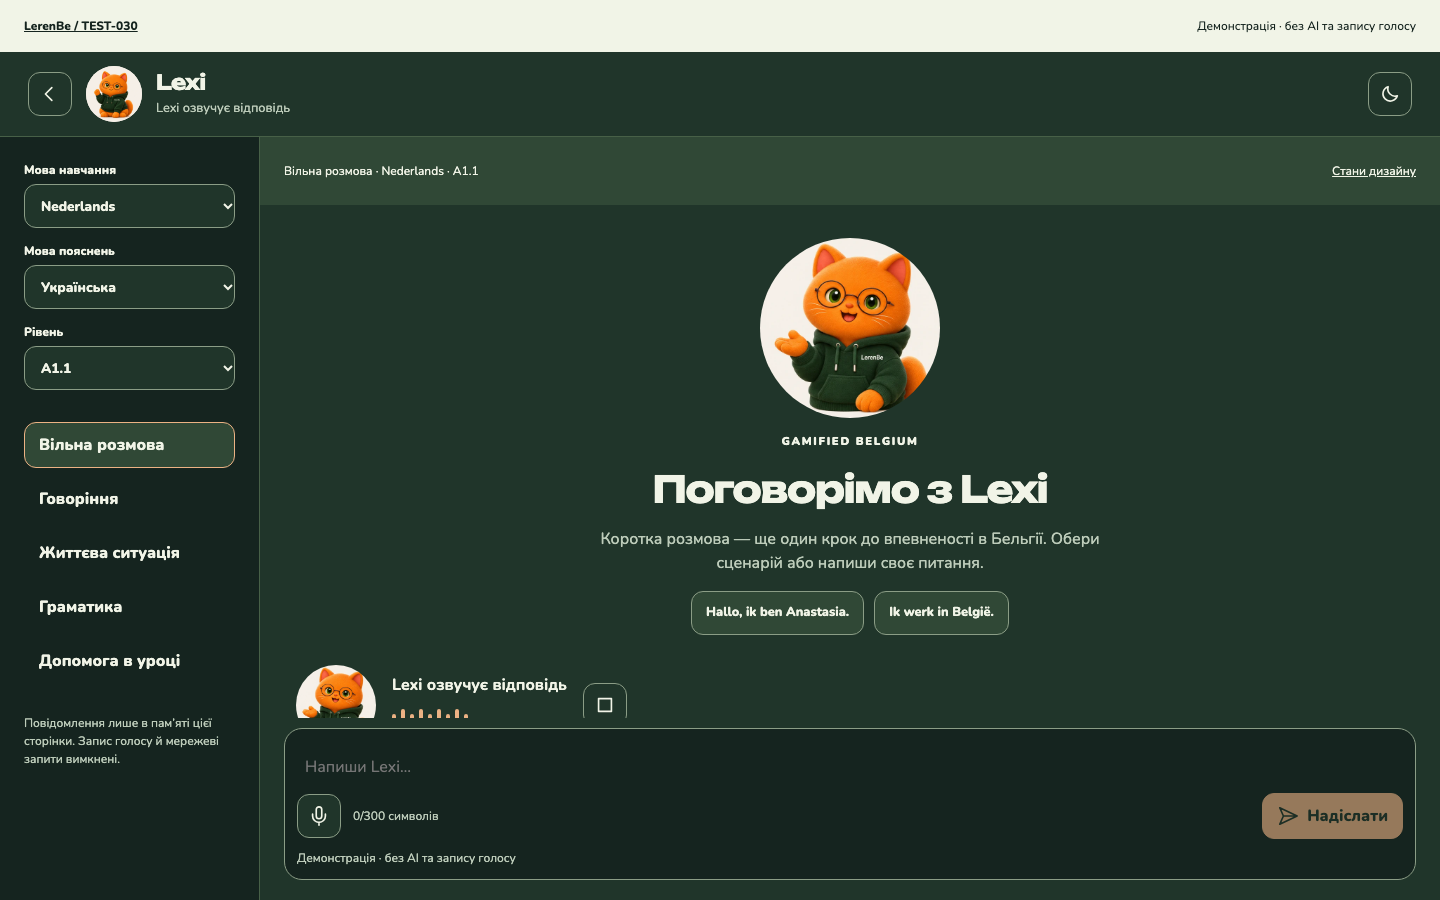
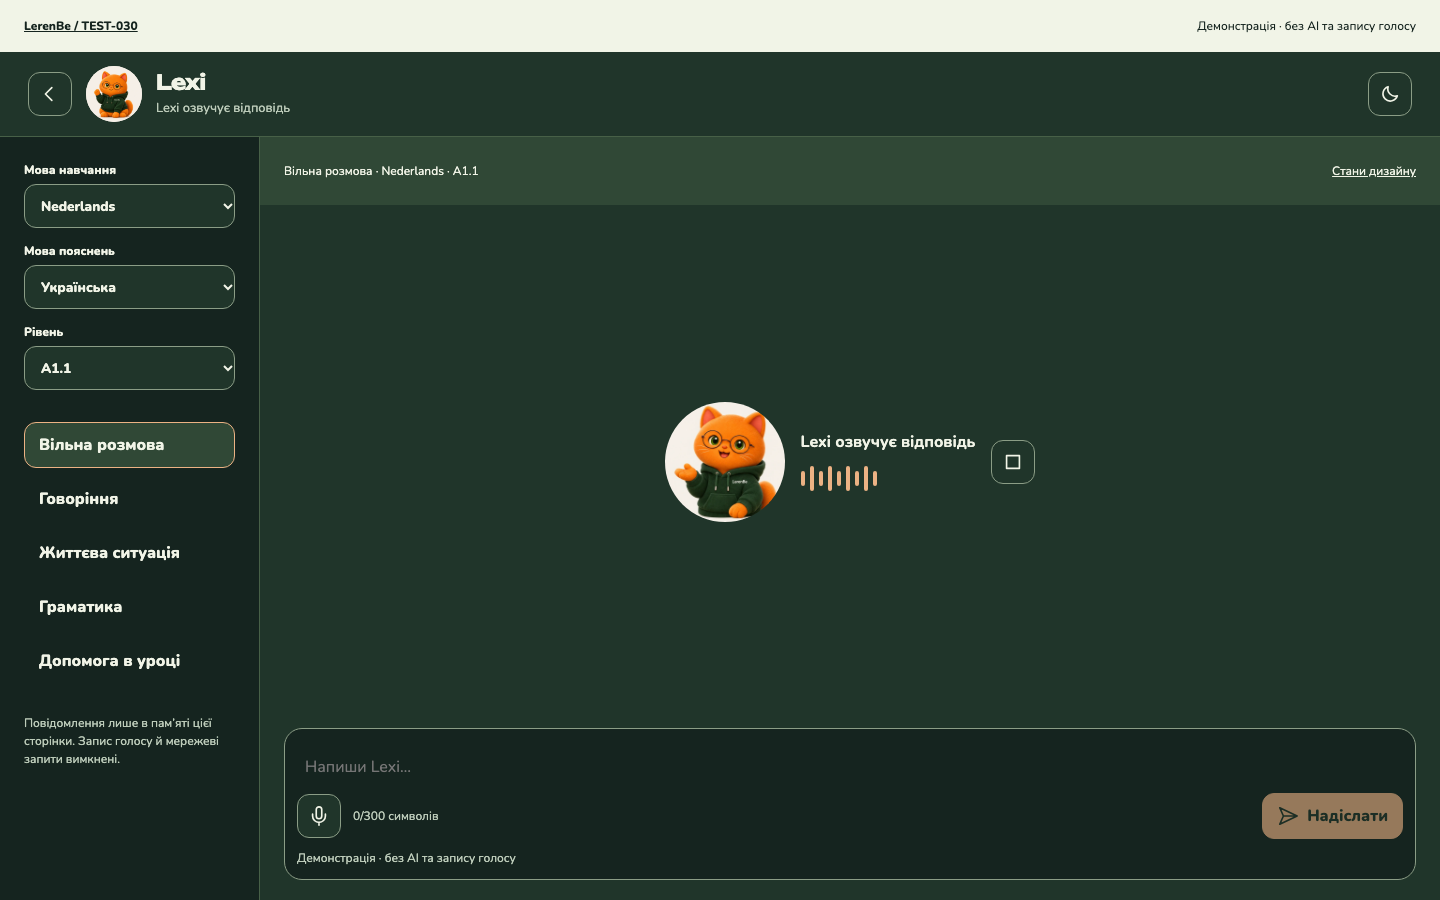
Keep active Lexi states focused without a duplicate welcome panel

Changed region(s): [[0.4062, 0.2489, 0.75, 0.6844], [0.1875, 0.7156, 0.4062, 0.8089]]

diff --git a/design-lab/test-030/lexi/chat.js b/design-lab/test-030/lexi/chat.js
@@ -18,7 +18,7 @@ export function mountLexiChat(root,{engine,voice=null,demo=false,initial={},cont
  function render(){if(disposed)return;const focused=root.contains(document.activeElement)?document.activeElement:null,key=focused?.name?`[name="${focused.name}"]`:focused?.dataset.action?`[data-action="${focused.dataset.action}"]`:focused?.dataset.scenario?`[data-scenario="${focused.dataset.scenario}"]`:null,selection=focused?.name==='draft'?[focused.selectionStart,focused.selectionEnd]:null;const oldLog=root.querySelector('.chat-log'),oldScroll=oldLog?.scrollTop||0;
  document.documentElement.lang=s.ui;document.documentElement.dir=s.ui==='ar'?'rtl':'ltr';document.documentElement.dataset.theme=s.theme;
  s.preview=s.state;s.errorCode=s.error?.code||s.errorCode||'network';const disabled=s.busy||!!s.pending,voiceSupported=voice?.listen&&engine.voice?.().listen;
- root.innerHTML=`<div class="lexi-app"><div class="demo-strip"><a href="../review.html">LerenBe / TEST-030</a><span>${escape(demo?t().demo:'Lexi')}</span></div><header class="chat-header">${btn('leave',t().back,'back','icon-button')}<img class="lexi-av" src="../assets/lexi-master-proposal.webp" width="64" height="64" alt="Lexi"><div><h1 id="prog">Lexi</h1><p class="status" role="status">${escape(stateText())}</p></div>${btn('theme',t().theme,'theme','icon-button theme-button')}</header><div class="layout"><aside class="sidebar"><div class="settings">${select('target',languages,t().language)}${select('ui',uis,t().explain)}${select('level',levels,t().level)}</div><nav aria-label="${escape(t().scene)}">${scenarioIds.map(id=>`<button type="button" data-scenario="${id}" aria-pressed="${s.scenario===id}">${escape(t()[id])}</button>`).join('')}</nav>${s.scenario==='roleplay'?select('scene',Object.fromEntries(sceneIds.map(id=>[id,t()[id]])),t().scene):''}<p class="privacy">${escape(t().privacy)}</p></aside><main class="ai-chat-card"><div class="context-strip"><span>${escape(t()[s.scenario])} · ${languages[s.target]} · ${levels[s.level]}</span>${demo?`<details class="design-controls"><summary>${escape(t().review)}</summary><div>${select('preview',Object.fromEntries(states.map(id=>[id,id==='correct'?'success / correct':id])),t().state)}${select('errorCode',Object.fromEntries(Object.keys(errorPolicy).map(id=>[id,id])),t().errorCode)}</div></details>`:''}</div><div class="chat-log" role="log" aria-label="Lexi conversation" aria-live="polite" aria-relevant="additions text" aria-busy="${s.busy}">${s.messages.length?'':`<section class="welcome">${avatar('hero')}<span class="eyebrow">GAMIFIED BELGIUM</span><h2>${escape(t().welcome)}</h2><p>${escape(t().intro)}</p><div class="starters">${['Hallo, ik ben Anastasia.','Ik werk in België.'].map(text=>btn('starter',s.target==='nl'?text:s.target==='fr'?'Bonjour, je travaille en Belgique.':'Hello, I work in Belgium.')).join('')}</div></section>`}${transcript()}${['listening','thinking','speaking'].includes(s.state)?`<section class="live-state ${s.state==='thinking'?'lexi-thinking':''}" role="status">${avatar()}<div><b>${escape(stateText())}</b><div class="wave" aria-hidden="true">${'<i></i>'.repeat(9)}</div>${s.state==='listening'?`<p>${escape(t().voiceHint)}</p>`:''}</div>${s.state!=='thinking'?btn('stop',t().stop,'stop','icon-button'):''}</section>`:''}${s.state==='correct'?`<p class="success" role="status">${svg('check')}${escape(t().success)}</p>`:''}<div class="ac-tools">${errorPanel()}</div></div><div class="notice g-heard" role="status">${escape(s.notice)}</div><form class="ai-type g-type"><label class="sr" for="draft">${escape(t().placeholder)}</label><input id="draft" name="draft" dir="auto" value="${escape(s.draft)}" placeholder="${escape(t().placeholder)}" maxlength="${max()}" ${disabled?'disabled':''}><div class="composer-tools">${btn('mic',t().mic,'mic','icon-button g-mic-btn',disabled)}<span id="counter">${s.draft.length}/${max()} ${escape(t().count)}</span><button type="submit" class="primary send" ${disabled||s.until>Date.now()||!s.draft.trim()?'disabled':''}>${svg('send')}<span>${escape(t().send)}</span></button></div><p class="composer-hint">${escape(demo?t().demo:!voiceSupported?t().noVoice:t().voiceHint)}</p></form></main></div></div>`;
+ root.innerHTML=`<div class="lexi-app"><div class="demo-strip"><a href="../review.html">LerenBe / TEST-030</a><span>${escape(demo?t().demo:'Lexi')}</span></div><header class="chat-header">${btn('leave',t().back,'back','icon-button')}<img class="lexi-av" src="../assets/lexi-master-proposal.webp" width="64" height="64" alt="Lexi"><div><h1 id="prog">Lexi</h1><p class="status" role="status">${escape(stateText())}</p></div>${btn('theme',t().theme,'theme','icon-button theme-button')}</header><div class="layout"><aside class="sidebar"><div class="settings">${select('target',languages,t().language)}${select('ui',uis,t().explain)}${select('level',levels,t().level)}</div><nav aria-label="${escape(t().scene)}">${scenarioIds.map(id=>`<button type="button" data-scenario="${id}" aria-pressed="${s.scenario===id}">${escape(t()[id])}</button>`).join('')}</nav>${s.scenario==='roleplay'?select('scene',Object.fromEntries(sceneIds.map(id=>[id,t()[id]])),t().scene):''}<p class="privacy">${escape(t().privacy)}</p></aside><main class="ai-chat-card"><div class="context-strip"><span>${escape(t()[s.scenario])} · ${languages[s.target]} · ${levels[s.level]}</span>${demo?`<details class="design-controls"><summary>${escape(t().review)}</summary><div>${select('preview',Object.fromEntries(states.map(id=>[id,id==='correct'?'success / correct':id])),t().state)}${select('errorCode',Object.fromEntries(Object.keys(errorPolicy).map(id=>[id,id])),t().errorCode)}</div></details>`:''}</div><div class="chat-log" role="log" aria-label="Lexi conversation" aria-live="polite" aria-relevant="additions text" aria-busy="${s.busy}">${s.messages.length||s.state!=='welcome'?'':`<section class="welcome">${avatar('hero')}<span class="eyebrow">GAMIFIED BELGIUM</span><h2>${escape(t().welcome)}</h2><p>${escape(t().intro)}</p><div class="starters">${['Hallo, ik ben Anastasia.','Ik werk in België.'].map(text=>btn('starter',s.target==='nl'?text:s.target==='fr'?'Bonjour, je travaille en Belgique.':'Hello, I work in Belgium.')).join('')}</div></section>`}${transcript()}${['listening','thinking','speaking'].includes(s.state)?`<section class="live-state ${s.state==='thinking'?'lexi-thinking':''}" role="status">${avatar()}<div><b>${escape(stateText())}</b><div class="wave" aria-hidden="true">${'<i></i>'.repeat(9)}</div>${s.state==='listening'?`<p>${escape(t().voiceHint)}</p>`:''}</div>${s.state!=='thinking'?btn('stop',t().stop,'stop','icon-button'):''}</section>`:''}${s.state==='correct'?`<p class="success" role="status">${svg('check')}${escape(t().success)}</p>`:''}<div class="ac-tools">${errorPanel()}</div></div><div class="notice g-heard" role="status">${escape(s.notice)}</div><form class="ai-type g-type"><label class="sr" for="draft">${escape(t().placeholder)}</label><input id="draft" name="draft" dir="auto" value="${escape(s.draft)}" placeholder="${escape(t().placeholder)}" maxlength="${max()}" ${disabled?'disabled':''}><div class="composer-tools">${btn('mic',t().mic,'mic','icon-button g-mic-btn',disabled)}<span id="counter">${s.draft.length}/${max()} ${escape(t().count)}</span><button type="submit" class="primary send" ${disabled||s.until>Date.now()||!s.draft.trim()?'disabled':''}>${svg('send')}<span>${escape(t().send)}</span></button></div><p class="composer-hint">${escape(demo?t().demo:!voiceSupported?t().noVoice:t().voiceHint)}</p></form></main></div></div>`;
  root.querySelector('.chat-log').scrollTop=oldScroll;if(key){const el=root.querySelector(key);el?.focus({preventScroll:true});if(selection&&el?.setSelectionRange)el.setSelectionRange(...selection)} }
  function bind(){unsub?.();unsub=engine.on(e=>{if(e.type==='state'&&e.state==='thinking'&&s.busy&&(!e.scenario||e.scenario===s.scenario)){s.state=e.state;render()}})}
  function reset(){epoch++;stopVoice?.();stopVoice=null;s.busy=false;s.pending=null;s.error=null;s.until=0;s.messages=[];s.state='welcome';s.notice=t().changed;clearInterval(interval);bind();render()}
@@ -28,7 +28,7 @@ export function mountLexiChat(root,{engine,voice=null,demo=false,initial={},cont
  function edit(cancel=false){if(!s.pending)return;if(!cancel)s.draft=s.pending.content;s.messages=s.messages.filter(m=>m!==s.pending);s.pending=null;s.error=s.until>Date.now()?s.error:null;s.state=s.error?'error':'idle';render();root.querySelector('[name=draft]')?.focus()}
  function preview(state,code='network'){reset();s.notice='';s.state=state;if(state==='error'||state==='offline'){s.error={code:state==='offline'?'offline':code,wait:code==='slow'?{seconds:3}:code==='limit'?{at:Date.now()+86400000}:null};s.pending={role:'user',content:'Ik werken in België.'};s.messages=[s.pending];if(code==='limit')s.until=s.error.wait.at;if(code==='slow'){s.until=Date.now()+3000;interval=setInterval(()=>{render();if(Date.now()>=s.until)clearInterval(interval)},1000)}}
  if(['correct','incorrect','idle'].includes(state)){const bad=state==='incorrect';s.messages=[{role:'user',content:bad?'Ik werken in België.':'Ik werk in België.'},{role:'assistant',content:'Goed zo.',result:state==='idle'?{kind:'ask',answer:'Ik + werk.',examples:[{lang:'nl',text:'Ik werk in België.',translation:'Я працюю в Бельгії.'}]}:{kind:'chat',reply:'Leuk je te ontmoeten!',translation:'Приємно познайомитися!',verdict:bad?'incorrect':'correct',correction:bad?{original:'Ik werken in België.',corrected:'Ik werk in België.',explanation:'Ik + werk.',severity:'minor'}:null}}];if(bad)s.scenario='roleplay'}render()}
- function click(e){const scenario=e.target.closest('[data-scenario]');if(scenario){s.scenario=scenario.dataset.scenario;reset();return}const b=e.target.closest('[data-action]');if(!b||b.disabled)return;const a=b.dataset.action;if(a==='theme'){s.theme=s.theme==='light'?'dark':'light';render()}if(a==='leave'){reset();onLeave()}if(a==='starter'){s.draft=b.textContent;render();root.querySelector('[name=draft]').focus()}if(a==='retry')send(true);if(a==='edit')edit();if(a==='cancel')edit(true);if(a==='mic'){if(voice?.listen&&engine.voice?.().listen){s.state='listening';render();const token=epoch;stopVoice=voice.listen({lang:s.target,onText:text=>{if(token!==epoch||disposed)return;s.draft=String(text).slice(0,max());s.notice=t().voiceHint;render()},onEnd:()=>{if(token===epoch&&!disposed){s.state='idle';render()}},onError:error=>{if(token===epoch&&!disposed){s.state='idle';s.notice=error?.code==='micDenied'?t().micDenied:t().noVoice;render()}}})}else{s.notice=t().noVoice;render()}}if(a==='speak'){const reply=[...s.messages].reverse().find(m=>m.role==='assistant');if(voice?.speak&&engine.voice?.().speak&&reply){s.state='speaking';render();const token=epoch;stopVoice=voice.speak(reply.content,s.target,()=>{if(token===epoch&&!disposed){s.state='idle';render()}})}else{s.notice=t().noVoice;render()}}if(a==='stop'){epoch++;stopVoice?.();stopVoice=null;s.state='idle';render()}}
+ function click(e){const scenario=e.target.closest('[data-scenario]');if(scenario){s.scenario=scenario.dataset.scenario;reset();return}const b=e.target.closest('[data-action]');if(!b||b.disabled)return;const a=b.dataset.action;if(a==='theme'){s.theme=s.theme==='light'?'dark':'light';render()}if(a==='leave'){reset();onLeave()}if(a==='starter'){s.draft=b.textContent;render();root.querySelector('[name=draft]').focus()}if(a==='retry')send(true);if(a==='edit')edit();if(a==='cancel')edit(true);if(a==='mic'){if(voice?.listen&&engine.voice?.().listen){s.state='listening';render();const token=epoch;stopVoice=voice.listen({lang:s.target,onText:text=>{if(token!==epoch||disposed)return;s.draft=String(text).slice(0,max());s.notice=t().voiceHint;render()},onEnd:()=>{if(token===epoch&&!disposed){s.state='idle';render()}},onError:error=>{if(token===epoch&&!disposed){s.state='idle';s.notice=error?.code==='micDenied'?t().micDenied:t().noVoice;render()}}})}else{s.notice=t().noVoice;render()}}if(a==='speak'){const reply=[...s.messages].reverse().find(m=>m.role==='assistant');if(voice?.speak&&engine.voice?.().speak&&reply){s.state='speaking';render();const token=epoch;stopVoice=voice.speak(reply.content,s.target,()=>{if(token===epoch&&!disposed){s.state='idle';render()}})}else{s.notice=t().noVoice;render()}}if(a==='stop'){epoch++;stopVoice?.();stopVoice=null;s.state=s.messages.length?'idle':'welcome';render()}}
  function change(e){const n=e.target.name;if(['ui','target','level','scene'].includes(n)){s[n]=e.target.value;reset()}if(n==='preview')preview(e.target.value);if(n==='errorCode'){s.errorCode=e.target.value;preview('error',e.target.value)}}
  function input(e){if(e.target.name==='draft'){s.draft=e.target.value;root.querySelector('#counter').textContent=`${s.draft.length}/${max()} ${t().count}`;root.querySelector('[type=submit]').disabled=!s.draft.trim()||s.busy||!!s.pending||s.until>Date.now()}}
  function submit(e){e.preventDefault();send()}

diff --git a/design-lab/test-030/lexi/chat.css b/design-lab/test-030/lexi/chat.css
@@ -2,3 +2,4 @@
 /* Small screens reflow vertically when enlarged text outgrows the viewport. */
 @media(max-width:767px){.layout,.ai-chat-card{min-height:min-content}.chat-log{max-height:60dvh}}
 @media(max-width:359px){.settings{grid-template-columns:minmax(0,1fr)}.settings label:last-child select{max-width:none}}
+.chat-log:has(>.live-state):not(:has(.g-bub)){display:grid;align-content:center;justify-content:center}.chat-log:has(>.live-state):not(:has(.g-bub)) .avatar{width:120px;height:120px}

diff --git a/TESTING-JOURNAL.md b/TESTING-JOURNAL.md
@@ -382,3 +382,4 @@ Total output lines: 142
 - Перевірки: 144 layout-комбінації (8 ширин × 2 теми × 9 контрактних станів), 24 text-200% комбінації чотирма мовами, 14 interaction-груп; без horizontal overflow, малих touch controls, битої графіки, JS exceptions чи зовнішніх запитів. Evidence та інтеграційні компоненти: docs/design/test-030/contract-ready/README.md / checks.json; скриншоти screenshots/test-030/contract-ready.
 - Галерея та головні AI-входи відкривають новий компонент; історичний прямий URL старого mock збережено для попередніх evidence/tests. CI отримує exact TEST-031 SHA тільки для fixture-check; deployment/workers незмінні.
 - Межі: Chromium emulation, не фізичний телефон; live AI/Worker/mic/TTS/XP не підключено, app/, life/, Firebase, Cloudflare і production не змінено. PR залишається Draft, результат CI — у PR.
+- Фінальний state-огляд: welcome-panel більше не повторюється в listening/thinking/speaking; додано assertion на одну секцію привітання тільки у welcome. Перший варіант assertion рахував також однойменний клас емоції аватара; селектор звужено до section.welcome, після чого всі 144/24/14 перевірки пройшли повторно.
